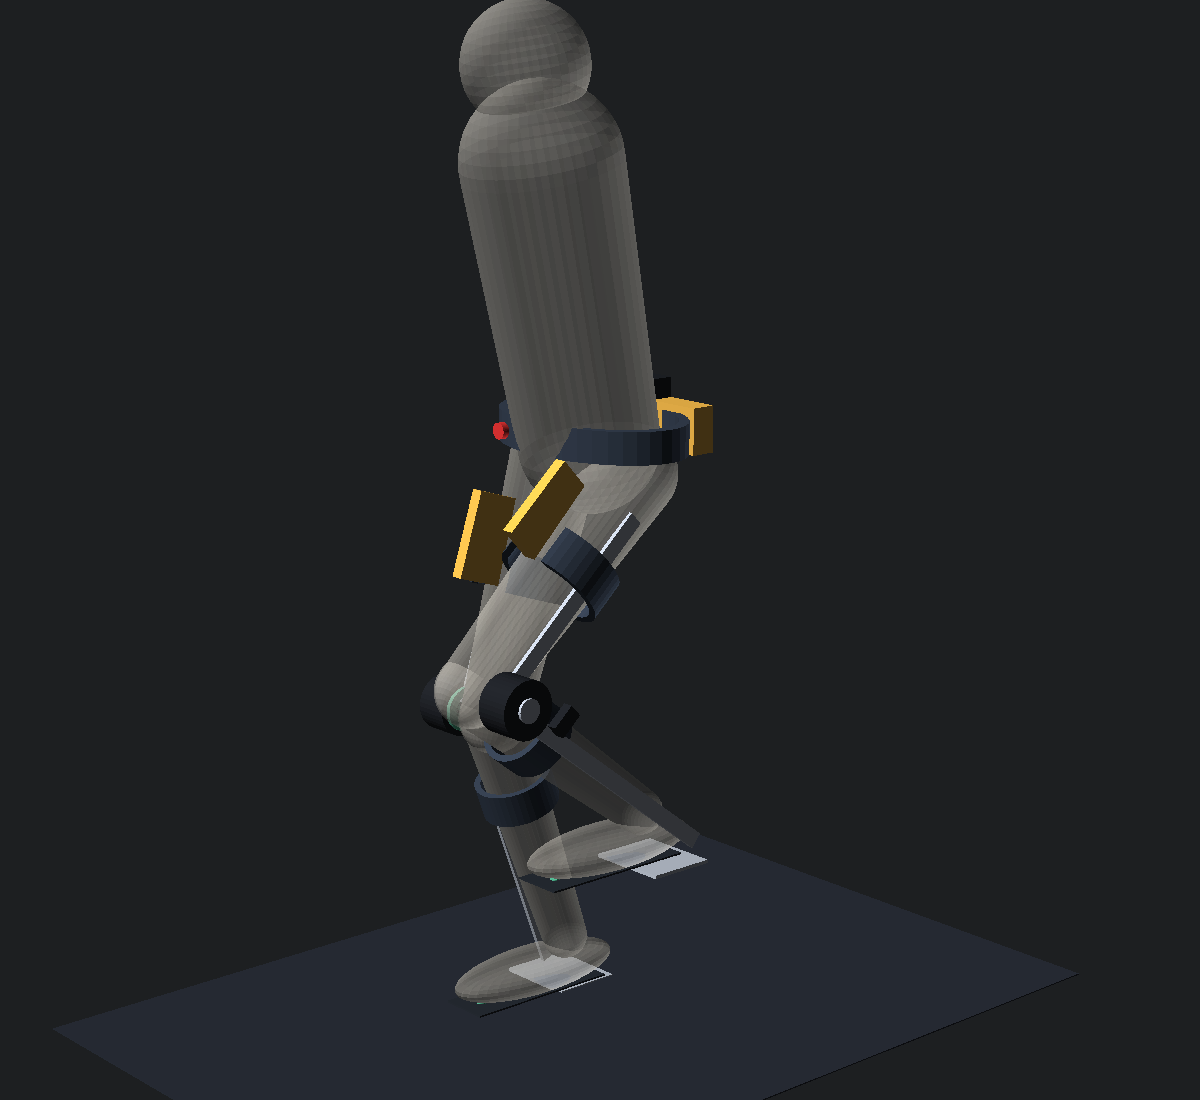
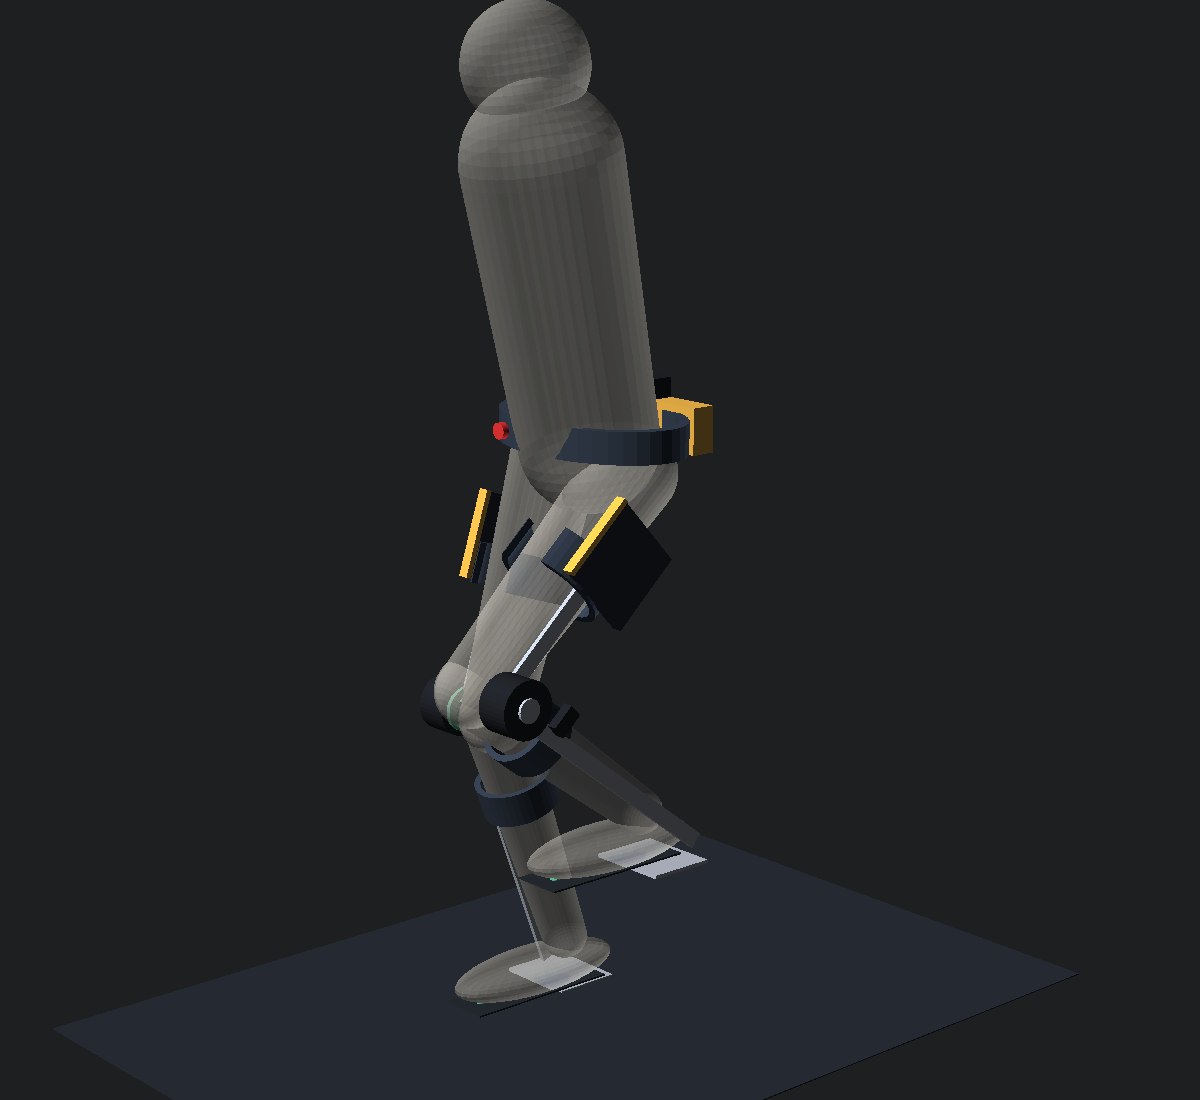
Mount the stowed seat pad flush on the thigh rail; add live viewer links and Pages index
The amber box on the thigh was the stowed seat pad floating 66 mm off the
rail in battery-pack colours. It is now a charcoal foam cushion with an
amber trim edge that folds flat against the rail's outer face (viewer and
OpenSCAD), and sweeps under the thigh on an arc in seat modes. Verified
both legs carry all 12 exo parts in every frame of the on-body animation.
README links the live GitHub Pages viewer and embeds every render.

Changed region(s): [[0.37, 0.4018, 0.555, 0.5564]]

diff --git a/run_sit_exo_viewer.html b/run_sit_exo_viewer.html
@@ -180,7 +180,9 @@ const M = {
   act:   new THREE.MeshPhysicalMaterial({ color: 0x15171c, roughness: 0.34, metalness: 0.65, clearcoat: 0.5, clearcoatRoughness: 0.25 }),
   steel: new THREE.MeshPhysicalMaterial({ color: 0xe0e4ea, roughness: 0.18, metalness: 1.0 }),
   fabric:new THREE.MeshPhysicalMaterial({ color: 0x1f2a3c, roughness: 0.92, metalness: 0, sheen: 1, sheenRoughness: 0.5, sheenColor: new THREE.Color(0x4d6a99) }),
-  pad:   new THREE.MeshPhysicalMaterial({ color: 0xf0a43a, roughness: 0.82, metalness: 0, sheen: 0.8, sheenRoughness: 0.6, sheenColor: new THREE.Color(0xffd28a) }),
+  // seat pads: charcoal closed-cell foam cushion with an amber trim edge (NOT the amber of the battery packs)
+  pad:   new THREE.MeshPhysicalMaterial({ color: 0x2c3442, roughness: 0.88, metalness: 0, sheen: 1, sheenRoughness: 0.45, sheenColor: new THREE.Color(0x8aa0c8) }),
+  trim:  new THREE.MeshPhysicalMaterial({ color: 0xf0a43a, roughness: 0.5, metalness: 0.1, clearcoat: 0.4 }),
   batt:  new THREE.MeshPhysicalMaterial({ color: 0xe9a73a, roughness: 0.42, metalness: 0.15, clearcoat: 0.6 }),
   dark:  new THREE.MeshStandardMaterial({ color: 0x0f1218, roughness: 0.7 }),
   red:   new THREE.MeshPhysicalMaterial({ color: 0xe0352b, roughness: 0.3, clearcoat: 0.8, emissive: 0x400000 }),
@@ -374,9 +376,13 @@ for (const s of [1, -1]) {
   }
   // STEP 6: fold-down seat pad (pivot on the thigh rail, axis along the thigh)
   {
-    const pv = part({ name: `Fold-down seat pad (${side})`, label: 'Seat pad', price: 35, mass: '0.18 kg (EST)', spec: 'Aluminium pan, 20 mm closed-cell foam, hinge and over-centre detent. Centre of pressure 65% of the thigh length from the knee (0.30 m on a 95th-pct man): that lever sets every seat torque number.', step: 5, parent: rig.hip[s], at: V(-14, -(Lt - sPad), s * latLeg), ex: V(-260, 0, s * 140), labelAt: V(-60, 60, 0) });
-    const arm = mesh(new RoundedBoxGeometry(56, 120, 6, 2, 2), M.alu); arm.position.set(-30, 0, -s * 4); pv.add(arm);
-    const pad = mesh(new RoundedBoxGeometry(24, 160, 158, 4, 10), M.pad); pad.position.set(-66, 0, -s * 70); pv.add(pad);
+    const pv = part({ name: `Fold-down seat pad (${side})`, label: 'Seat pad', price: 35, mass: '0.18 kg (EST)', spec: 'Charcoal closed-cell foam cushion on an aluminium pan, with a hinge and over-centre detent on the thigh rail. Stowed, it lies flat on the outside of the rail. Deployed, it swings under the thigh. Centre of pressure 65% of the thigh length from the knee (0.30 m on a 95th-pct man): that lever sets every seat torque number.', step: 5, parent: rig.hip[s], at: V(-14, -(Lt - sPad), s * latLeg), ex: V(-260, 0, s * 140), labelAt: V(-60, 60, 0) });
+    // hinge block stays on the rail; the cushion moves between STOWED (flat on the outside of the
+    // thigh rail, like a side panel) and DEPLOYED (swung under the thigh). applyPose drives K.padMov.
+    const hinge = mesh(new RoundedBoxGeometry(30, 70, 12, 2, 4), M.alu); hinge.position.set(4, 0, s * 4); pv.add(hinge);
+    const mov = new THREE.Group(); pv.add(mov); K.padMov = mov;
+    const pad = mesh(new RoundedBoxGeometry(18, 150, 150, 5, 8), M.pad); mov.add(pad);
+    const trim = mesh(new RoundedBoxGeometry(20, 154, 10, 2, 4), M.trim); trim.position.z = s * 72; mov.add(trim);
     K.padPivot = pv;
   }
   // STEP 7: foot sensors
@@ -451,7 +457,11 @@ function applyPose(P) {
     rig.ankle[s].rotation.z = (P['foot' + s] - P['hip' + s] + P['knee' + s]) * D2R;
     rig.sh[s].rotation.z = P['arm' + s] * D2R;
     rig.el[s].rotation.z = P['elb' + s] * D2R;
-    knees[s].padPivot.rotation.y = s * (Math.PI / 2) * (1 - P.pad);
+    { // pad: stowed flush on the rail's outer face → deployed under the thigh, on a swing arc
+      const t = smooth(P.pad), m = knees[s].padMov;
+      m.position.set(-6 + (-65 + 6) * t, 0, s * (16 + (-70 - 16) * t) + s * 55 * Math.sin(Math.PI * t));
+      m.rotation.y = s * (Math.PI / 2) * (1 - t);
+    }
     contact[s] = { heel: lift(fp[s].heel) < 14, toe: lift(fp[s].toe) < 14 };  // for the FSR display
   }
   rig.trunk.rotation.z = -P.trunk * D2R;

diff --git a/index.html b/index.html
@@ -1,0 +1,14 @@
+<!DOCTYPE html>
+<html>
+<head>
+<meta charset="utf-8">
+<title>Run + Sit Exo — open powered knee exoskeleton with a seat</title>
+<meta http-equiv="refresh" content="0; url=run_sit_exo_viewer.html">
+</head>
+<body style="margin:0;background:#0a0f1a;color:#dce8ff">
+<!-- GitHub Pages landing: send visitors straight to the ONE real viewer. -->
+<script>location.replace('run_sit_exo_viewer.html' + location.search);</script>
+<p style="font-family:-apple-system;padding:20px">Opening the Run + Sit Exo 3D viewer…
+<a href="run_sit_exo_viewer.html" style="color:#8fd0ff">click here if it doesn't load</a></p>
+</body>
+</html>

diff --git a/README.md b/README.md
@@ -3,6 +3,9 @@
 
 ![Run + Sit Exo P1, chair mode](renders/mode_chair_quarter.png)
 
+### ▶ [Open the live 3D viewer](https://nicedreamzapp.github.io/run-sit-exo/run_sit_exo_viewer.html) · [watch it assemble](https://nicedreamzapp.github.io/run-sit-exo/run_sit_exo_viewer.html?anim=assembly) · [watch it walk, hike, run and sit](https://nicedreamzapp.github.io/run-sit-exo/run_sit_exo_viewer.html?anim=body)
+*Runs in any browser, no install. Click any part for its price, mass and why it's there.*
+
 > **Mission:** This project is about freedom of movement. Go farther on your own legs, and rest wherever you are: on a trail with no bench, at a shop bench all day, in a line that never ends. The machine works for the person wearing it, quietly, and never against anyone. We build it to give people more say in how far they can go and when they can stop.
 
 | | |
@@ -34,6 +37,10 @@ Torque is what each knee's lock must carry for a **130 kg, 1.87 m man** (US 95th
 | Use | long lines | bar stool | full seat | work near the ground |
 
 "Lock design load" is the worst lean, all weight on **one** leg, times a 1.5 safety factor.
+
+| Running stride | Exo only | Exploded |
+|---|---|---|
+| ![run](renders/mode_run_quarter.png) | ![exo only](renders/exo_only_quarter.png) | ![exploded](renders/exploded_quarter.png) |
 
 ## Current design (prototype one, P1)
 - **Knee actuators:** CubeMars **AK10-9 V2.0** at each knee: 9:1 quasi-direct drive, 18 Nm rated, 48 Nm peak, 0.8 Nm backdrive, CAN, $698.90. It keeps up with a running knee (rated 205 rpm = 21.5 rad/s at 24 V, more than twice the ~8.7 rad/s a running knee reaches in swing), and it adds only ~2% to the inertia your shank already swings.
@@ -125,7 +132,8 @@ This is experimental assistive hardware, not a medical device. Anyone with a kne
 ## Repository map
 | File | What it is |
 |------|-----------|
-| `run_sit_exo_viewer.html` | **The live CAD.** Orbit, switch modes, explode, click any part for price and spec. **▶ Assembly** builds it in 7 steps; **▶ On body** walks, hikes, runs, stops, offers a seat, sits in all four angles and stands up, with motor, lock, pad and foot-sensor state live |
+| `index.html` | Redirects the GitHub Pages site to the viewer |
+| `run_sit_exo_viewer.html` | **The live CAD** ([open it](https://nicedreamzapp.github.io/run-sit-exo/run_sit_exo_viewer.html)). Orbit, switch modes, explode, click any part for price and spec. **▶ Assembly** builds it in 7 steps; **▶ On body** walks, hikes, runs, stops, offers a seat, sits in all four angles and stands up, with motor, lock, pad and foot-sensor state live |
 | `run_sit_exo_assembly.html` / `run_sit_exo_onbody.html` | Open the viewer straight into either animation |
 | `run_sit_exo.scad` | Parametric OpenSCAD model; `mode` = stand / perch / halfsit / chair / squat / run |
 | `render_all.sh` → `renders/*.png` | Renders every view and mode with the OpenSCAD CLI |
@@ -141,7 +149,7 @@ This is experimental assistive hardware, not a medical device. Anyone with a kne
 | `RESEARCH_REPORT_2026-10-21.md` | Sources, prior art, licences, what we could not find |
 
 **Run the numbers:** `node run_all.mjs` (Node 18+, no dependencies).
-**View the CAD:** open `run_sit_exo_viewer.html` in any browser; no install, no account. Options: `?anim=assembly|body` · `?mode=chair` · `?view=side` · `?labels=1` · `?shot=1` (download a PNG).
+**View the CAD:** [live viewer](https://nicedreamzapp.github.io/run-sit-exo/run_sit_exo_viewer.html), or open `run_sit_exo_viewer.html` locally in any browser; no install, no account. Options: `?anim=assembly|body` · `?mode=chair` · `?view=side` · `?labels=1` · `?shot=1` (download a PNG).
 **Re-render:** `bash render_all.sh` (OpenSCAD 2021.01+).
 
 ## How to contribute
